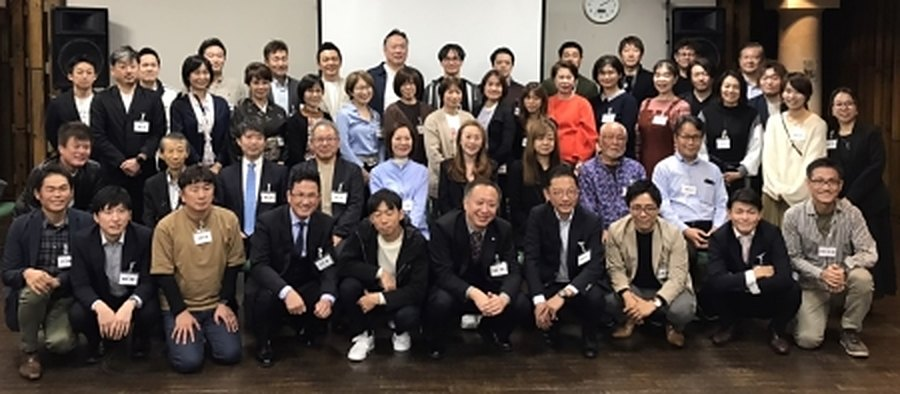
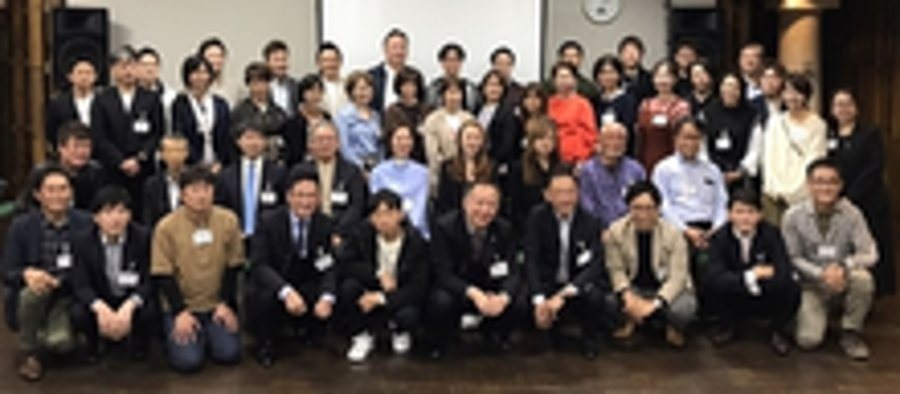
お客様の声・結論メッセージ・FVリードの文言変更、アンケート実写と集合写真の差し替え
- FV: サブタイトル削除、リード文を新原稿に差し替え（写真を上・文字を下に配置）、開催数を3,026回に
- お客様の声2・3の本文差し替え、黄色マーカー追加
- 満足度ラベルを「子育ての不安が軽くなった」に
- 結論メッセージ: 夢に関する段落を削除し、受講後の声3つを追加
- 講師紹介: 資格の仮置きブロックを削除、写真を大田写真③に差し替え
- アンケート用紙を実物スキャン（個人情報は黒塗り）に、集合写真は解像度を落として掲載
- 満足度セクションの継ぎ目の白線を修正

diff --git a/index.html b/index.html
@@ -11,7 +11,7 @@
 <link rel="preconnect" href="https://fonts.googleapis.com">
 <link rel="preconnect" href="https://fonts.gstatic.com" crossorigin>
 <link href="https://fonts.googleapis.com/css2?family=M+PLUS+1p:wght@500;700;800&family=Noto+Sans+JP:wght@400;500;700&family=Poppins:wght@500;600&family=Zen+Kurenaido&family=Shippori+Mincho:wght@500;700&display=swap" rel="stylesheet">
-<link rel="stylesheet" href="css/style.css?v=202609250958">
+<link rel="stylesheet" href="css/style.css?v=202609261409">
 </head>
 <body>
 <div class="lp" id="top">
@@ -80,7 +80,6 @@
       <h1 class="fv-title">
         <span class="fv-title__pre">ママのための</span>
         <span class="fv-title__main"><i>『</i>親の役割ってなぁ〜に？<i>』</i></span>
-        <span class="fv-title__sub">「これじゃあかんかな…」が<br>「これでええねん！」に変わる子育ての考え方</span>
       </h1>
 
       <p class="fv-free"><svg viewBox="0 0 60 40" aria-hidden="true"><path d="M6 36 2 10l15 12L30 3l13 19 15-12-4 26z"/></svg>参加費<br>無料</p>
@@ -92,10 +91,8 @@
         <img src="images/fv-seminar3.jpg" width="640" height="480" alt="">
         <img src="images/fv-seminar2.jpg" width="640" height="480" alt="">
       </div>
-      <p>子育てに悩むママさんから<br>相談を受けて驚いたこと。<br>感じたこと。</p>
-      <p class="fv-lead__pause">それは、、、</p>
-      <p class="fv-lead__key"><span class="marker">親の役割を意外と知らない</span><span class="fv-lead__rest">ということ</span></p>
-      <p class="fv-lead__last">今日からやりたくなる内容を盛り込んで<br>あっという間の<strong><b>180</b>分</strong>をお届けします</p>
+      <p class="fv-lead__intro">子どもの自己肯定感をあげて<br>ママの抱える子育てへの不安を軽くするための</p>
+      <p class="fv-lead__last"><span class="marker">子育ての考え方</span>について<br>今日からやりたくなる内容を盛り込んで<br>あっという間の<strong><b>180</b>分</strong>をお届けします</p>
     </div>
 
     <p class="fv-chosen"><em><b>30</b>歳〜<b>47</b>歳</em>のママさんに選ばれています</p>
@@ -103,7 +100,7 @@
     <ul class="fv-stats">
       <li>
         <span class="fv-stats__label">セミナー<br>開催数</span>
-        <span class="fv-stats__num"><b>1,459</b>回</span>
+        <span class="fv-stats__num"><b>3,026</b>回</span>
       </li>
       <li>
         <span class="fv-stats__label">セミナー<br>参加人数</span>
@@ -234,7 +231,7 @@
         <p class="voice-card__lead">自分で考えてほしいのに<br><span class="marker">つい先回りして口出してしまう</span><span class="nb"><span class="marker">自分が嫌でした</span></span></p>
         <div class="voice-card__body">
           <p>思春期の娘との関わり方に悩んでいました。「自分でやって」と言いながら、結局は私が準備を手伝っていることも多くありました。どこまで口に出していいのか分からず、結局先回りしていることに悩んでいました。</p>
-          <p>セミナーに参加してからは、<em>子どもが失敗しないように教えるだけでなく、自分で失敗を経験して考える力を身につけることが成長につながると分かりました。</em><br>それに、帰ってから<em>主人と子どもの将来について話し合う時間を作るキッカケにもなりました。</em></p>
+          <p>セミナーに参加してからは、<em>子育てに対する肩の荷がスッとなくなって、子どもへの関わり方が分かって</em><span class="marker">不思議と子どもの笑顔が多く見れるようになりました。</span><br>子どもに<em>自分がしてあげられることを改めて見直すキッカケになりました。</em></p>
         </div>
       </article>
       <article class="voice-card">
@@ -242,8 +239,8 @@
         <p class="voice-card__who"><span>40代</span><span>会社員</span><span>長男・長女の母</span></p>
         <p class="voice-card__lead">家族を大切にしたい気持ちと<br><span class="marker">自分の時間がほしい気持ちの間で</span><br><span class="marker">苦しくなっていました</span></p>
         <div class="voice-card__body">
-          <p>仕事や家事、子どものことに追われて、一日があっという間に過ぎていました。子育て中の親なので、自分の時間や仕事を大切にすることに罪悪感がありました。そう思うこと自体が、母親としてわがままなのではないかと感じていました。</p>
-          <p>セミナーを通して、<em>親が自分の人生を楽しむことも子どものためになると分かり、気持ちがスッと軽くなりました。</em><br>これからは、<em>子どもに背中を見せても恥ずかしくない親になりたい</em>と思います。</p>
+          <p>歳の差婚でもあって、色々と考えないといけないことがあり、“自分の時間”なんてワガママなのではないかと感じていました。</p>
+          <p>セミナーを通して、<em>自分自身を大切にしてもいいんだと分かって、自分の時間を作るようにしました。</em>そうすると、<span class="marker">以前感じていた切迫感のようなストレスがなくなって、前よりも笑顔になれる時間が増え、夫婦仲も良くなりました。</span><br>これからは、<em>もっと子どもに背中を見せても恥ずかしくない親になりたい</em>と思います。</p>
         </div>
       </article>
     </div>
@@ -261,11 +258,11 @@
       </svg>
     </h2>
     <div class="survey__sheets" role="img" aria-label="参加者アンケート用紙のイメージ">
-      <svg viewBox="0 0 140 190"><use href="#sheet"/></svg>
-      <svg viewBox="0 0 140 190"><use href="#sheet"/></svg>
-      <svg viewBox="0 0 140 190"><use href="#sheet"/></svg>
-      <svg viewBox="0 0 140 190"><use href="#sheet"/></svg>
-      <svg viewBox="0 0 140 190"><use href="#sheet"/></svg>
+      <img src="images/survey-1.jpg" alt="" loading="lazy">
+      <img src="images/survey-2.jpg" alt="" loading="lazy">
+      <img src="images/survey-1.jpg" alt="" loading="lazy">
+      <img src="images/survey-2.jpg" alt="" loading="lazy">
+      <img src="images/survey-1.jpg" alt="" loading="lazy">
     </div>
     <ul class="survey__ratings">
       <li class="rating-card">
@@ -274,7 +271,7 @@
         <p class="rating-card__num">4.7</p>
       </li>
       <li class="rating-card">
-        <p class="rating-card__label">親の役割について<br>納得できた</p>
+        <p class="rating-card__label">子育ての<br>不安が軽くなった</p>
         <p class="rating-card__stars" style="--rate:92.5%" aria-hidden="true">★★★★★</p>
         <p class="rating-card__num">4.8</p>
       </li>
@@ -361,27 +358,7 @@
       ということ。
     </p>
     <p class="message__key">
-      学生の頃恋愛をしていた<br>
-      昔の自分のように<br>
-      心から満たされて初めて<br>
-      子どもを幸せにできるのです。
-    </p>
-    <p class="message__key message__key--bridge">
-      たくさんのママが<br>
-      子どもに<em>夢をもって</em><br>
-      <em>生きて欲しい</em>と思っています。
-    </p>
-
-    <p class="message__ask">
-      あなたはどんな夢を持っていますか？<br>
-      その夢は叶えられてますか？
-    </p>
-
-    <p class="message__body">「夢なんて思いつかない…」と思われたかも。でも、自分が夢を持っていなくて、どうやって子どもに夢を持たせますか？叶えるためには、どれだけ大変なのか伝えられますか？</p>
-    <p class="message__body"><em>叶えた時にどれぐらい幸せなのかを子どもに見せてあげてください。</em>これが親の役割の一つです。このセミナーでは、第一歩となる夢の見つけ方のヒントもお伝えしていきます。</p>
-
-    <p class="message__key">
-      あなたが親の役割を<br>
+      そして、あなたが親の役割を<br>
       <span class="marker">「知っているかどうか」</span>で、<br>
       子どもの将来に<br>
       大きな差が生まれます。
@@ -394,6 +371,8 @@
     </div>
 
     <p class="message__body">だからこそ、今まさに子育てに向き合っているママさんがこれからの人生を安心して自信を持てるように、<em>ママのための「親の役割ってなぁ〜に？」というセミナー</em>を開催しています。</p>
+    <p class="message__body">受講された皆さまが、本やネットに溢れた正解かどうかも分からない情報に振り回されないためのお話に力を注いでいます。</p>
+    <p class="message__body">受講されたママさんたちは、<br><span class="marker">「今まで責任を感じていた重荷から解放された」</span><br><span class="marker">「これで大丈夫なんだと安心できるようになった」</span><br><span class="marker">「周りから明るくなったねと言ってもらえるようになった」</span><br>などなど家庭での明るい未来を手に入れられています。</p>
   </section>
 
   <!-- ============ 講師紹介 ============ -->
@@ -418,18 +397,8 @@
       <p>けど、海外は異なります。<em>子どもにいろんな経験をさせてあげて、将来の選択肢を増やす、チャレンジできるようにさせてあげるんです。</em><span class="marker">どちらの子育てが自分の子どもにとって有益でしょうか？</span></p>
       <p>子育てに悩むママさんたちは、<span class="marker">正しい子育ての“やり方”ばかりを探そうとしていますが、そんなものはありません。</span>でも、<em>子どもを正しい方向に導くための考え方はあります。</em>それを知って、親自身の考え方を見直すのが本セミナーです。</p>
     </div>
-    <!-- 資格（クライアント確認中・仮） -->
-    <div class="teacher__license is-tbd">
-      <p class="teacher__license-head">保有資格・認定が入ります。<br>（例：○○協会認定 ○○資格）</p>
-      <div class="teacher__license-row">
-        <div class="teacher__license-logo">資格ロゴ</div>
-        <p>資格の説明文や、資格に関連する実績の紹介文が入ります。</p>
-      </div>
-      <span class="tbd-tag">仮・確認中</span>
-    </div>
-
     <!-- 講演中の写真 -->
-    <img class="teacher__photo" src="images/teacher-talk.jpg" width="1000" height="625" alt="セミナーで話す大田麻美" loading="lazy">
+    <img class="teacher__photo" src="images/teacher-talk.jpg" width="1000" height="625" alt="講師 大田麻美" loading="lazy">
 
     <!-- 経歴 -->
     <table class="teacher__history">

diff --git a/css/style.css b/css/style.css
@@ -94,7 +94,7 @@ em, i { font-style: normal; }
     radial-gradient(60% 22rem at 85% 8rem, rgba(255, 255, 255, .85), transparent 70%),
     linear-gradient(180deg, #cfe8ec 0, #dff0f3 18rem, #fff 40rem);
 }
-.fv-main { position: relative; height: 35.3rem; }
+.fv-main { position: relative; height: 31.6rem; }
 
 .fv-teacher {
   position: absolute;
@@ -203,33 +203,23 @@ em, i { font-style: normal; }
 .fv-title__main i:last-child { margin-right: -.25em; top: .06em; }
 .fv-title__sub { margin-top: .5rem; padding: 0 .8rem; font-size: 1.3rem; font-weight: 700; line-height: 1.55; letter-spacing: 0; white-space: normal; /* ぼかしではなく、くっきりした白い輪郭線で服の上でも読めるようにする */ text-shadow: .12rem 0 0 #fff, -.12rem 0 0 #fff, 0 .12rem 0 #fff, 0 -.12rem 0 #fff, .09rem .09rem 0 #fff, -.09rem -.09rem 0 #fff, .09rem -.09rem 0 #fff, -.09rem .09rem 0 #fff; }
 
-/* ポラロイド風セミナー写真 */
-/* リード文の右に浮かせ、文章を左の空きに回り込ませる */
-.fv-photos { position: relative; z-index: 1; float: right; width: 15.6rem; height: 10.2rem; margin: -1.9rem -1.6rem .4rem .6rem; }
+/* ポラロイド風セミナー写真（列幅の半分ほどを右寄せで、リード文の上に） */
+.fv-photos { position: relative; z-index: 1; width: 23.5rem; height: 13rem; margin: -2.4rem -1.2rem 1.2rem auto; }
 .fv-photos img {
   position: absolute;
-  width: 11.2rem;
+  width: 16rem;
   border: .3rem solid #fff;
   box-shadow: 0 .2rem .6rem rgba(56, 33, 20, .22);
 }
-.fv-photos img:nth-child(1) { left: -1rem; top: 1rem; transform: rotate(-5deg); }
-.fv-photos img:nth-child(2) { right: 0; top: 0; transform: rotate(6deg); }
+.fv-photos img:nth-child(1) { left: 0; top: 1.2rem; transform: rotate(-5deg); }
+.fv-photos img:nth-child(2) { right: 0; top: 0; transform: rotate(5deg); }
 
 /* リード */
-.fv-lead { position: relative; padding: .6rem 2rem 0; font-size: 1.4rem; line-height: 1.65; color: var(--brown-deep); }
-.fv-lead__pause { margin-top: .6rem; letter-spacing: .2em; }
+.fv-lead { position: relative; padding: .6rem 2rem 0; font-size: 1.4rem; font-weight: 500; line-height: 1.65; color: var(--brown-deep); }
+.fv-lead .marker { padding: .1rem .2rem; font-family: var(--ff-head); font-weight: 700; font-size: 1.95rem; letter-spacing: .02em; }
+.fv-lead__intro { letter-spacing: 0; white-space: nowrap; }
+.fv-lead__last { margin-top: .5rem; }
 .fv-lead::after { content: ""; display: block; clear: both; }
-.fv-lead__key {
-  clear: right; /* 右に浮かせた写真の下から始める（写真の横で折り返さないため） */
-  margin: .2rem 0 .3rem;
-  font-family: var(--ff-head);
-  font-weight: 700;
-  font-size: 1.7rem;
-  line-height: 1.6;
-  letter-spacing: .02em;
-}
-.fv-lead__key .marker { padding: .1rem .2rem; }
-.fv-lead__rest { margin-left: .2rem; font-family: var(--ff-body); font-weight: 400; font-size: 1.4rem; letter-spacing: .04em; }
 .fv-lead__last strong { margin-right: .3rem; }
 .fv-lead strong { margin-left: .3rem; color: var(--coral-text); font-family: var(--ff-head); font-weight: 800; font-size: 1.7rem; }
 .fv-lead strong b { font-family: var(--ff-num); font-size: 2.6rem; font-weight: 600; line-height: 1; letter-spacing: 0; }
@@ -673,11 +663,13 @@ em, i { font-style: normal; }
 .voice-card__body { margin-top: 2.4rem; }
 .voice-card__body p + p { margin-top: 1.4rem; }
 .voice-card__body em { color: var(--coral-text); font-weight: 700; }
+.voice-card__body .marker { padding: .15rem 0; -webkit-box-decoration-break: clone; box-decoration-break: clone; }
 
 /* =========================================================
    アンケート・満足度
    ========================================================= */
-.survey { position: relative; padding: .4rem 2rem 5.6rem; background: var(--aqua); }
+/* 上の声セクションと同じ色なので、継ぎ目に端数の白線が出ないよう1px重ねる */
+.survey { position: relative; margin-top: -1px; padding: calc(.4rem + 1px) 2rem 5.6rem; background: var(--aqua); }
 /* 見出しは2行とも上に膨らむアーチに沿わせる（SVG textPath） */
 .survey__title { margin: 0 -.6rem; line-height: 0; }
 .survey__title svg { width: 100%; height: auto; overflow: visible; }
@@ -693,16 +685,16 @@ em, i { font-style: normal; }
 
 /* 扇状に重ねたアンケート用紙 */
 .survey__sheets { position: relative; height: 21rem; margin: 1.6rem -1rem 0; }
-.survey__sheets svg {
+.survey__sheets img {
   position: absolute;
   width: 12.4rem;
   filter: drop-shadow(0 .3rem .5rem rgba(56, 33, 20, .18));
 }
-.survey__sheets svg:nth-child(1) { left: .4rem; top: 3.2rem; transform: rotate(-14deg); }
-.survey__sheets svg:nth-child(2) { right: .4rem; top: 3rem; transform: rotate(13deg); }
-.survey__sheets svg:nth-child(3) { left: 6.6rem; top: 1.2rem; transform: rotate(-6deg); }
-.survey__sheets svg:nth-child(4) { right: 6.4rem; top: 1rem; transform: rotate(7deg); }
-.survey__sheets svg:nth-child(5) { left: 50%; top: 0; margin-left: -6.2rem; transform: rotate(-1deg); }
+.survey__sheets img:nth-child(1) { left: .4rem; top: 3.2rem; transform: rotate(-14deg); }
+.survey__sheets img:nth-child(2) { right: .4rem; top: 3rem; transform: rotate(13deg); }
+.survey__sheets img:nth-child(3) { left: 6.6rem; top: 1.2rem; transform: rotate(-6deg); }
+.survey__sheets img:nth-child(4) { right: 6.4rem; top: 1rem; transform: rotate(7deg); }
+.survey__sheets img:nth-child(5) { left: 50%; top: 0; margin-left: -6.2rem; transform: rotate(-1deg); }
 
 .survey__ratings {
   position: relative;
@@ -986,35 +978,11 @@ em, i { font-style: normal; }
 .message__key + .message__key { margin-top: 2.6rem; }
 .message__key em { color: var(--coral-text); }
 .message__key .marker { padding: .25rem .2rem; }
-.message__ask {
-  position: relative;
-  margin: 4rem -.4rem;
-  padding: 2.2rem 0 2.4rem;
-  border-radius: 1rem;
-  background: var(--aqua-box);
-  color: var(--teal-deep);
-  font-family: var(--ff-head);
-  font-weight: 800;
-  font-size: 1.8rem;
-  line-height: 1.9;
-  letter-spacing: .02em;
-  text-align: center;
-  white-space: nowrap;
-}
-.message__ask::after {
-  content: "";
-  position: absolute;
-  left: 50%;
-  top: 100%;
-  margin-left: -1rem;
-  border: 1rem solid transparent;
-  border-top: 1.2rem solid var(--aqua-box);
-  border-bottom: 0;
-}
 .message__body { margin: 3.2rem 0; }
 .message__body + .message__body { margin-top: -1.4rem; }
 .message__body:last-child { margin-bottom: 0; }
 .message__body em { color: var(--coral-text); font-weight: 700; }
+.message__body .marker { padding: .15rem 0; -webkit-box-decoration-break: clone; box-decoration-break: clone; }
 
 /* =========================================================
    講師紹介
@@ -1127,45 +1095,8 @@ em, i { font-style: normal; }
 .schedule-card__note { margin-top: 1rem; font-size: 1.2rem; line-height: 1.6; text-align: center; }
 
 /* =========================================================
-   講師紹介（続き）: 資格 / 相談写真 / 経歴 / メディア
+   講師紹介（続き）: 相談写真 / 経歴 / メディア
    ========================================================= */
-/* 仮置き要素の目印（確定後に .is-tbd と .tbd-tag を外す） */
-.is-tbd { position: relative; outline: .2rem dashed var(--coral); outline-offset: -.2rem; }
-.tbd-tag {
-  position: absolute;
-  right: .6rem;
-  top: .6rem;
-  padding: .1rem .8rem .2rem;
-  border-radius: 99rem;
-  background: var(--coral-text);
-  color: #fff;
-  font-size: 1.05rem;
-  font-weight: 700;
-  line-height: 1.6;
-}
-
-.teacher__license { margin: 3.6rem 2rem 0; padding: 2.4rem 2rem 2.2rem; border-radius: .8rem; background: #fff; }
-.teacher__license-head {
-  color: var(--teal-deep);
-  font-family: var(--ff-head);
-  font-weight: 800;
-  font-size: 1.65rem;
-  line-height: 1.75;
-  letter-spacing: .02em;
-}
-.teacher__license-row { display: flex; align-items: center; gap: 1.6rem; margin-top: 1.6rem; }
-.teacher__license-logo {
-  flex: none;
-  display: grid;
-  place-items: center;
-  width: 10rem;
-  height: 10rem;
-  border: 1px solid #c8c8c0;
-  border-radius: 50%;
-  color: #9a9a90;
-  font-size: 1.2rem;
-}
-
 .teacher__photo { display: block; width: calc(100% - 4rem); margin: 3.2rem 2rem 0; border-radius: .8rem; }
 
 .teacher__history {
